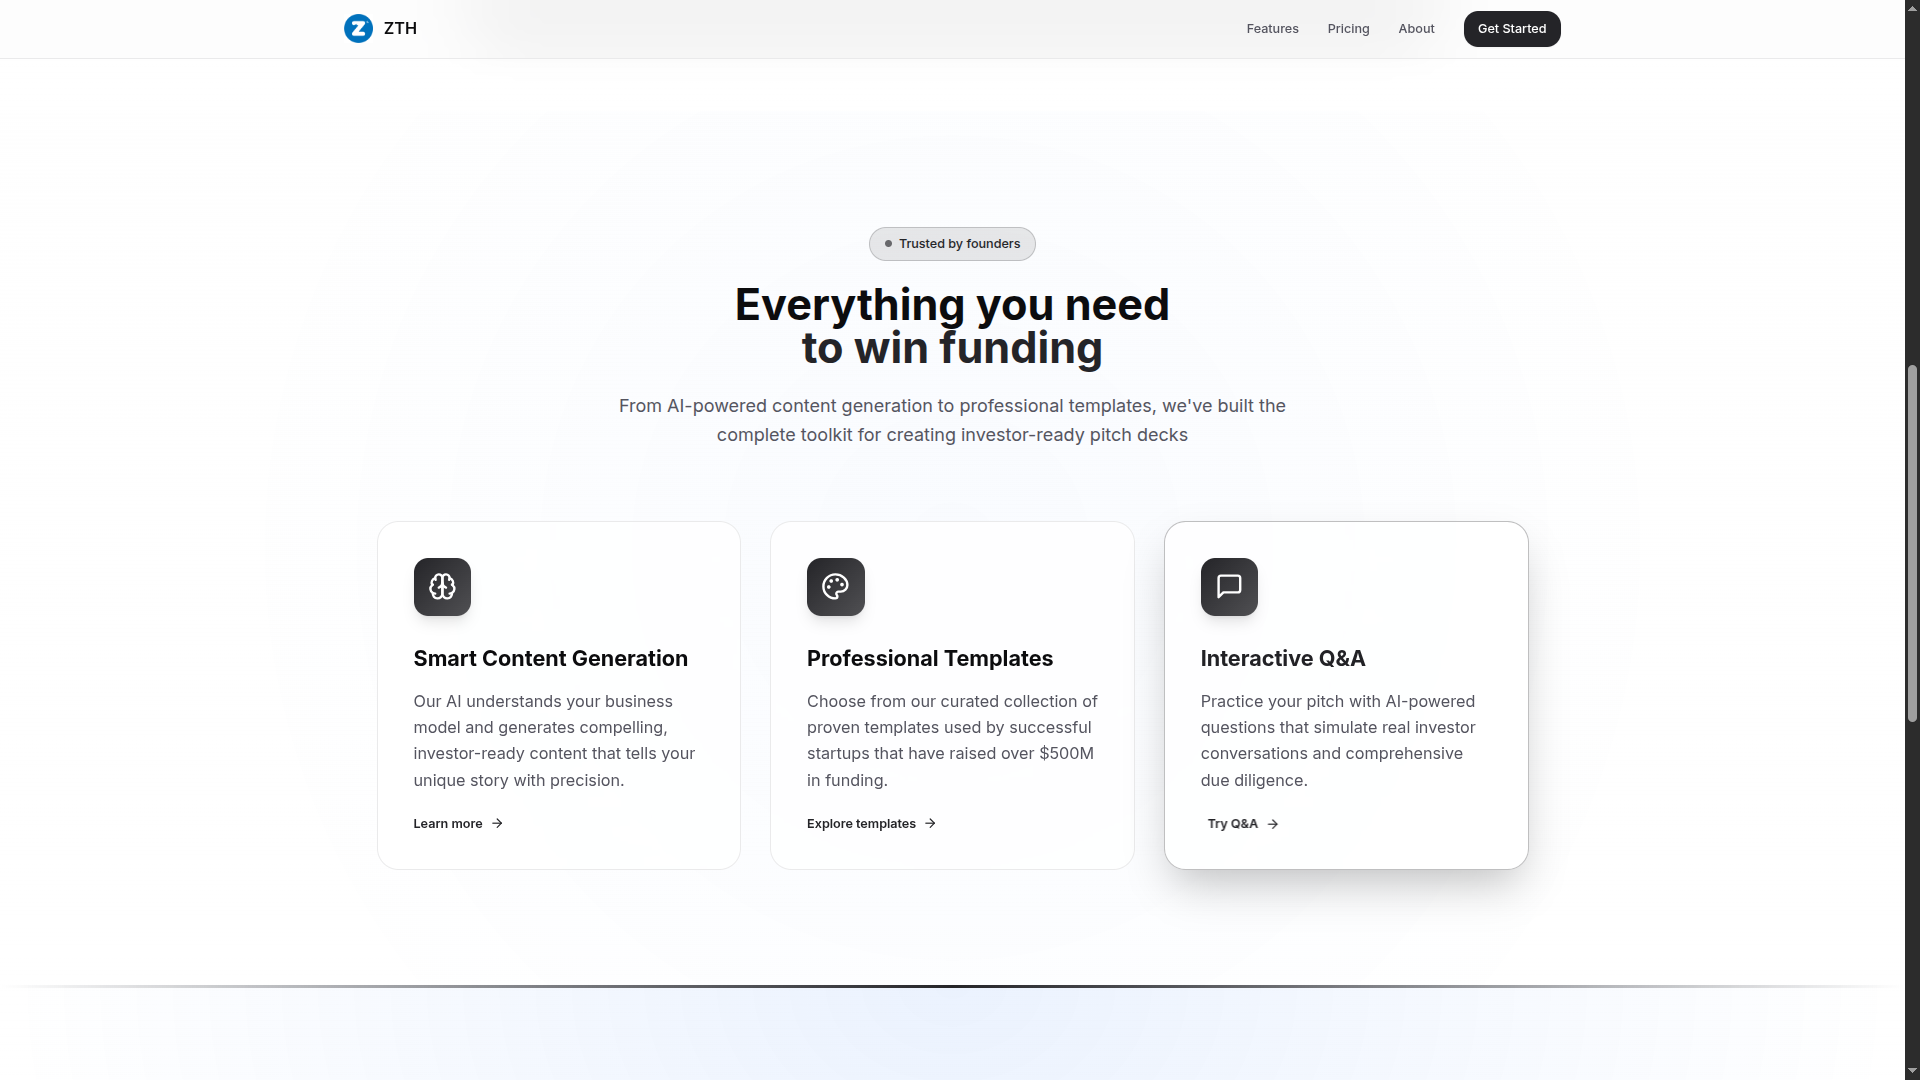
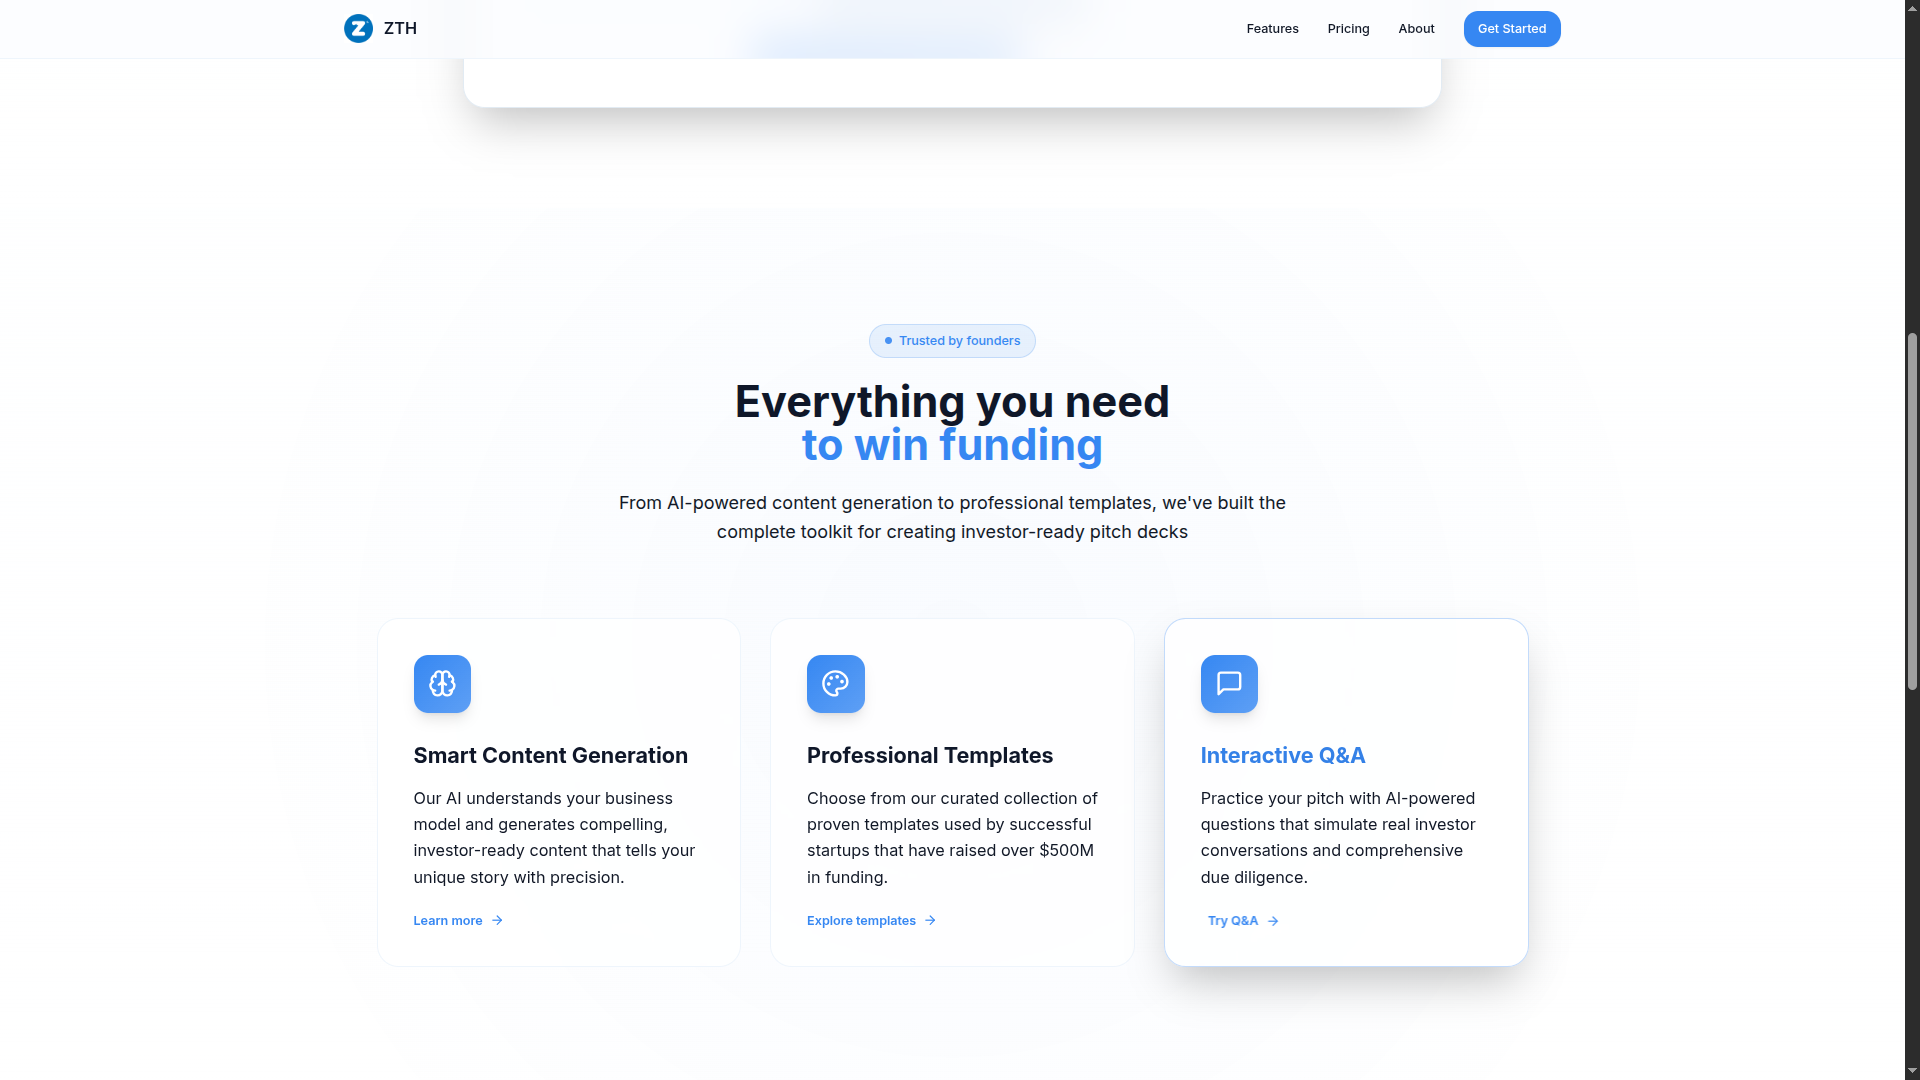
implemented color changes with screenshots

diff --git a/README.md b/README.md
@@ -24,6 +24,52 @@ A full-stack web application for creating professional pitch decks using AI-powe
 
 ![Screenshot 4](/screenshots/Screenshot4.png)
 
+## Color Palette
+
+The application uses a professional blue-based color scheme designed to maintain trust and credibility while providing excellent readability and accessibility.
+
+### Primary Colors
+- **Bright Blue (Buttons, Highlights)**: `#2563eb` - Used for primary actions, brand elements, and highlights
+- **Dark Navy (Primary Text)**: `#1e293b` - Main text color for headings and important content
+- **Deep Navy (Secondary Text)**: `#182436` - Secondary text and darker variations
+
+### Background Colors
+- **Pure White**: `#ffffff` - Main background color
+- **Light Blue Gradients**: Used for subtle background variations
+  - `#f8fbff` - Very light blue for backgrounds
+  - `#f0f7ff` - Light blue tint for surfaces
+  - `#f6faff` - Subtle blue background
+  - `#f2f8ff` - Card backgrounds
+  - `#f4f9ff` - Input backgrounds
+  - `#f7fbff` - Elevated surfaces
+  - `#f6f9fd` - Alternative background
+
+### Neutral Colors
+- **Light Gray (Borders, Subtle Backgrounds)**: `#f4f5f7` - Border colors and subtle backgrounds
+- **Soft Gray**: `#f5f6f8` - Muted backgrounds and disabled states
+- **Near White**: `#fcfcfc` - Very light backgrounds
+
+### CSS Custom Properties
+The colors are implemented using CSS custom properties in `src/index.css` for easy maintenance and dark mode support:
+
+```css
+:root {
+  --brand: 214 88% 58%;           /* #2563eb */
+  --text-primary: 222 47% 11%;    /* #1e293b */
+  --text-secondary: 221 39% 11%;  /* #1e293b variation */
+  --background: 0 0% 100%;        /* #ffffff */
+  --surface: 210 100% 99%;        /* #f8fbff */
+  /* ... additional properties */
+}
+```
+
+### Usage Guidelines
+- Use **Bright Blue** for primary actions (buttons, links, active states)
+- Use **Dark Navy** for main content and headings
+- Use **Light Blue Gradients** for backgrounds and subtle accents
+- Use **Neutral Grays** for borders, dividers, and secondary content
+- Maintain proper contrast ratios for accessibility (minimum 4.5:1 for normal text)
+
 ## Tech Stack
 
 ### Frontend
